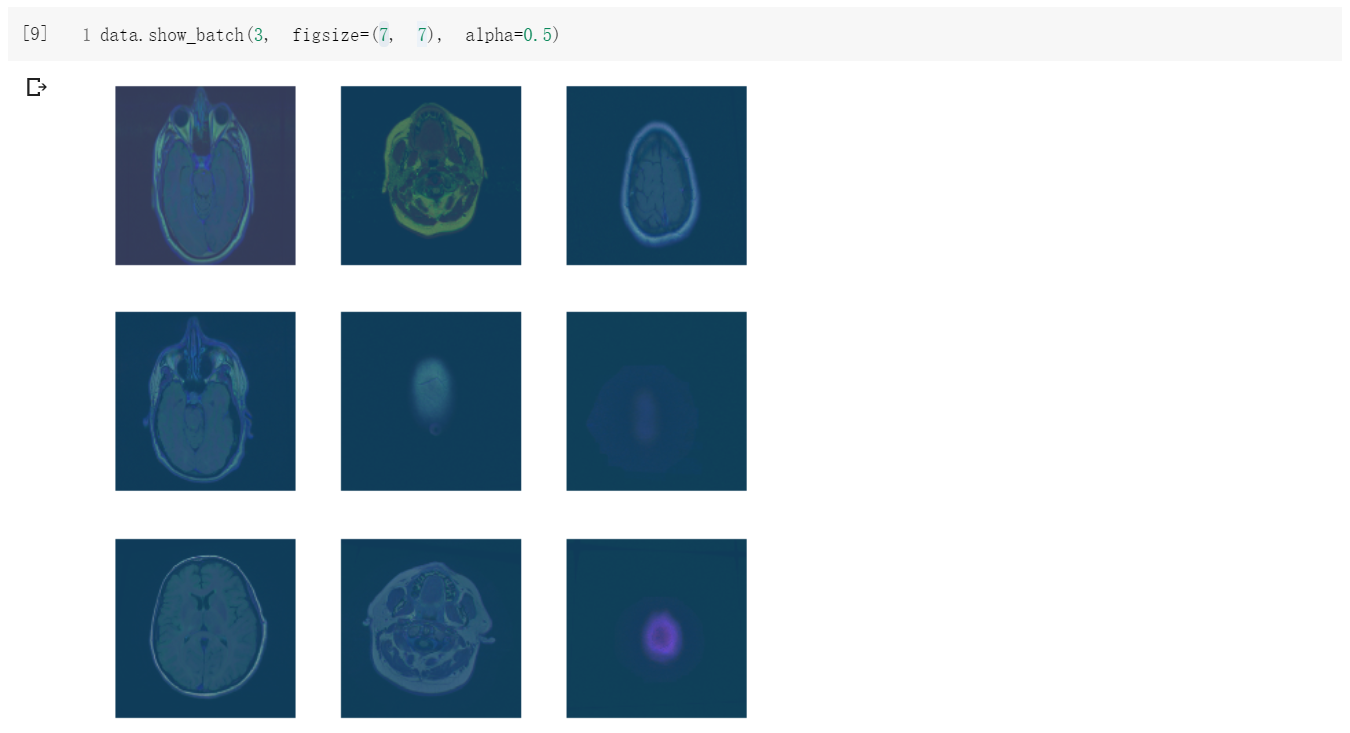
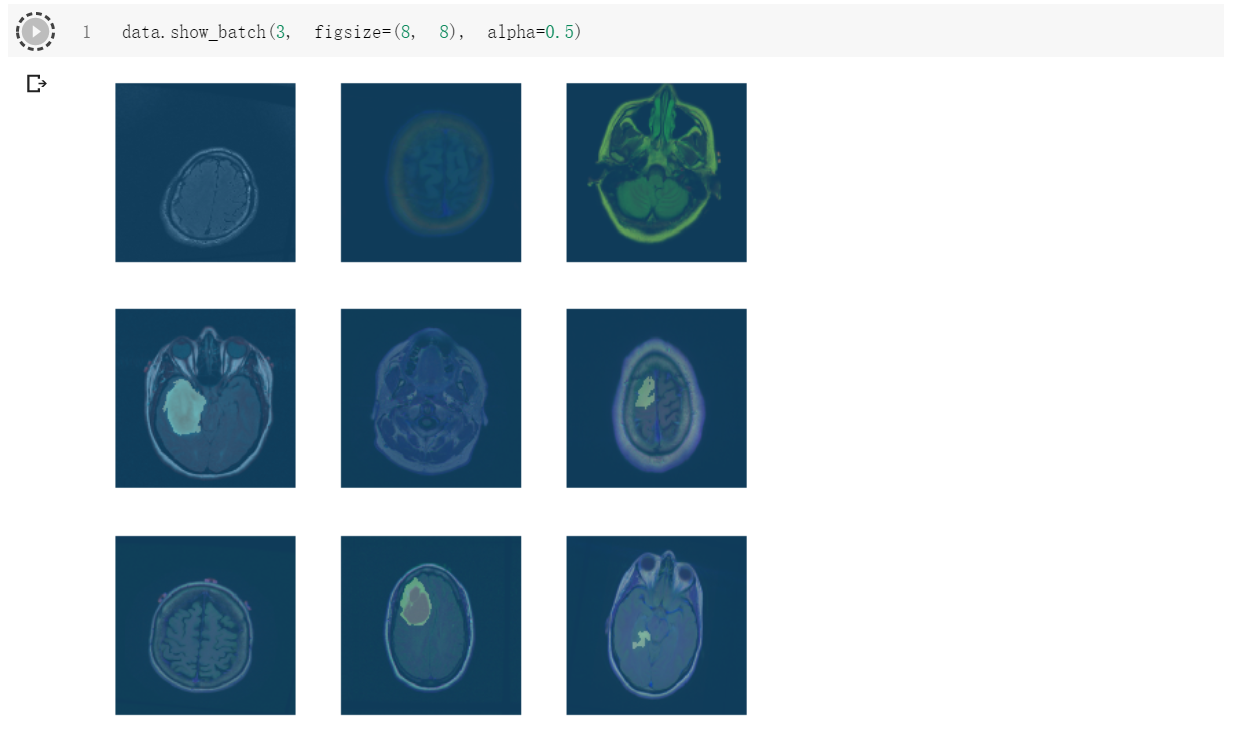
update

diff --git a/fastai-chapter-1.md b/fastai-chapter-1.md
@@ -55,7 +55,7 @@ learn = unet_learner(data, models.resnet18, metrics=dice, wd=1e-2)
     
 - 上传至 Google Drive（非必须）
 
-    由于我的小笔记本显存太小，跑 Unet 很容易 OOM（Out of Memory）故选择在 Google Colab 上跑。如果你还不知道 Colab 这个神器的话请看这儿 [薅资本主义羊毛，用Google免费GPU](https://zhuanlan.zhihu.com/p/33344222) 。当然啦，要使用 Colab 还是需要梯子的，如果你本地 GPU 显存够大或者有其他 GPU 资源，那也就没必要用 Colab 了，跳过该步吧。
+    由于我的小笔记本显存太小，跑 Unet 很容易 OOM（Out of Memory）故选择在 Google Colab 或 Kaggle Kernel 上跑。如果你还不知道 Colab 这个神器的话请看这儿 [薅资本主义羊毛，用Google免费GPU](https://zhuanlan.zhihu.com/p/33344222) 。当然啦，要使用 Colab 还是需要梯子的，如果你本地 GPU 显存够大或者有其他 GPU 资源，那也就没必要用 Colab 了，跳过该步吧。
 
     1.  首先将数据上传至你自己的 [Google Drive](https://drive.google.com/) 上（怎么上传我就不演示了:neutral_face:）。再新建一个 Colab 文件，看看可爱的猫猫，再点击 `装载 GOOGLE 云端硬盘` 
 
@@ -71,6 +71,8 @@ learn = unet_learner(data, models.resnet18, metrics=dice, wd=1e-2)
 
         成功后将会看到如下结果：
 
+        
+        
         ![colab_step_3_1](Pic/Chapter-1/colab_step_3_1.png)
 
 ------
@@ -83,15 +85,21 @@ learn = unet_learner(data, models.resnet18, metrics=dice, wd=1e-2)
 
 ### 先看看薅到的资本主义羊毛
 
-如果是使用 Colab 并启用 GPU 后端的话，执行以下指令
+如果是使用 Colab 或 Kaggle Kernel 并启用 GPU 后端的话，执行以下指令
 
 ```python
 !nvidia-smi
 ```
 
-![fastai_step_1](Pic/Chapter-1/fastai_step_nvsmi.png)
+>   -   在 Colab 执行上述指令后便可看到当前云服务器的 GPU 信息，不出意外的话都能连接到 [Tesla T4](https://www.nvidia.cn/data-center/tesla-t4/) GPU ，该卡有 16G 显存（也有可能是 Tesla K80）。Tesla T4 对混合精度运算有特殊加成，我接下来也将使用混合精度运算。
+>
+>       ![fastai_step_1](Pic/Chapter-1/fastai_step_nvsmi.png)
+>
+>   -   在 Kaggle Kernel 上执行的话，有一定可能申请到 [Tesla P100](https://www.nvidia.cn/data-center/tesla-p100/) ，这块卡的性能可比 Tesla T4 好太多了
+>
+>       ![kaggle_kernel](Pic/Chapter-1/kaggle_kernel.png)
 
-执行上述指令后便可看到当前云服务器的 GPU 信息，不出意外的话都能连接到 [Tesla T4](https://www.nvidia.cn/data-center/tesla-t4/) GPU ，该卡有 16G 显存。Tesla T4 对混合精度运算有特殊加成，我接下来也将使用混合精度运算。
+
 
 
 
@@ -121,7 +129,7 @@ learn = unet_learner(data, models.resnet18, metrics=dice, wd=1e-2)
 
 ### 数据生成器
 
-1.   `SegmentationItemList` 是 `fastai.vision` 中自带的一个构造图像语义分割数据生成器的方法。 我们改写 `SegmentationItemList` 读取标签的方法 `open_mask` ，通过向其传入 `div=True` 参数使其读取标签文件后可以生成两个通道的标签文件，第一个通道无肿瘤部分的标签，第二个通道为有肿瘤部分的标签。不改动该处的话，在有的版本的 fastai 上就会出现莫名其妙的标签数组越界问题。我们构造一个新类，继承自 `SegmentationLabelList` ，重写其中的 `open_mask` 函数。具体实现代码如下：
+1.   `SegmentationItemList` 是 `fastai.vision` 中自带的一个构造图像语义分割数据生成器的方法。 我们改写 `SegmentationItemList` 读取标签的方法 `open` ，通过向其传入 `div=True` 参数使其读取标签文件后可以生成两个通道的标签文件，第一个通道无肿瘤部分的标签，第二个通道为有肿瘤部分的标签。不改动该处的话，在有的版本的 fastai 上就会出现莫名其妙的标签数组越界问题。我们构造一个新类，继承自 `SegmentationLabelList` ，重写其中的 `open` 函数。具体实现代码如下：
 
     ![fastai_step_datalist](Pic/Chapter-1/fastai_step_datalist.png)
 
@@ -135,6 +143,71 @@ learn = unet_learner(data, models.resnet18, metrics=dice, wd=1e-2)
 
 3.  显示一些数据看看我们的生成器是否创建正确。fastai 中内置了很方便的方法，如下所示：
 
+    ![fastai_step_showbatch](Pic/Chapter-1/fastai_step_showbatch.png)
+
+    显然，我们的数据并没有任何问题，标签也正确地显示了。
+
+### 构建模型
+
+>   *注：下述代码均为 Kaggle Kernel 上运行所得的结果*
+
+1.  首先，我们通过一行代码来创建一个用 Resnet-34 做特征提取器的 Unet ，具体如下：
+
+    ![fastai_step_create_unet](Pic/Chapter-1/fastai_step_create_unet.png)
+
+    fastai 将会自动下载预训练 Resnet-34 并作为 Unet 的特征提取器。在此模型中我还使用了 `aelf_attention=True` 这将启用[自注意力机制](https://www.zhihu.com/topic/20682987/hot)。`metrics` 我指定为了 [`dice`](https://en.wikipedia.org/wiki/Sørensen–Dice_coefficient )，这是医学影像分割中常用的一种评价指标。`wd=1e-2` 是指模型的权重衰减系数为 0.01。
+
+2.  搜索最优学习率。执行下述指令即可搜索当前网络的学习率，并输出 fastai 建议的学习率：
+
+    ![fastai_step_find_lr](Pic/Chapter-1/fastai_step_find_lr.png)
+
+    从上图中可以知道建议的学习率为 5.25e-0.6，这是整个 lr-loss 曲线负斜率最大的点 ， [5.25e-0.6, 1e-03] 是一个不错的学习率范围。
+
+3.  开始训练。
+
+    ![fastai_step_train_1](Pic/Chapter-1/fastai_step_train_1.png)
+
+    传入的回调函数是为了在每轮验证集 `loss` 下降时，保存我们的模型。由上图可见，经过五轮训练，dice 系数以提升至 `0.857` ，后续我还将进行微调，使网络性能再提高一些。
+
+4.  查看训练期间 loss 、metric、学习率等随训练批次增加的变化。
+
+    -   `loss`
+
+        ![fastai_step_loss_1](Pic/Chapter-1/fastai_step_loss_1.png)
+
+    -   `dice` 系数
+
+        ![fastai_step_dice_1](Pic/Chapter-1/fastai_step_dice_1.png)
+
+    -   学习率
+
+        ![fastai_step_lr_1](Pic/Chapter-1/fastai_step_lr_1.png)
+
     
 
-    显然，我们的数据并没有
+### 微调模型
+
+>   注：下属操作大体同上，就不赘述了
+
+1.  解冻模型，并将模型转为混合精度模式：
+
+    ![fastai_step_unfreeze](Pic/Chapter-1/fastai_step_unfreeze.png)
+
+2.  搜索最佳学习率
+
+    ![fastai_step_find_lr_2](Pic/Chapter-1/fastai_step_find_lr_2.png)
+
+3.  继续训练模型
+
+    ![fastai_step_train_2](Pic/Chapter-1/fastai_step_train_2.png)
+
+    可见经过微调，`dice` 系数由原来的 `0.857` 提升到了 `0.579` 。如果更细致的调整模型的各个超参的话，我相信模型精度还能进一步提高。
+
+------
+
+## 参考及引用
+
+>   [FastAI Image Segmentation](https://towardsdatascience.com/fastai-image-segmentation-eacad8543f6f)
+>   [Fast.ai Lesson 3 notes — Part 1 v3](https://medium.com/@lankinen/fast-ai-lesson-3-notes-part-1-v3-78d47bd11748)
+>   [Semantic Segmentation on Aerial Images using fastai](https://medium.com/swlh/semantic-segmentation-on-aerial-images-using-fastai-a2696e4db127)
+
